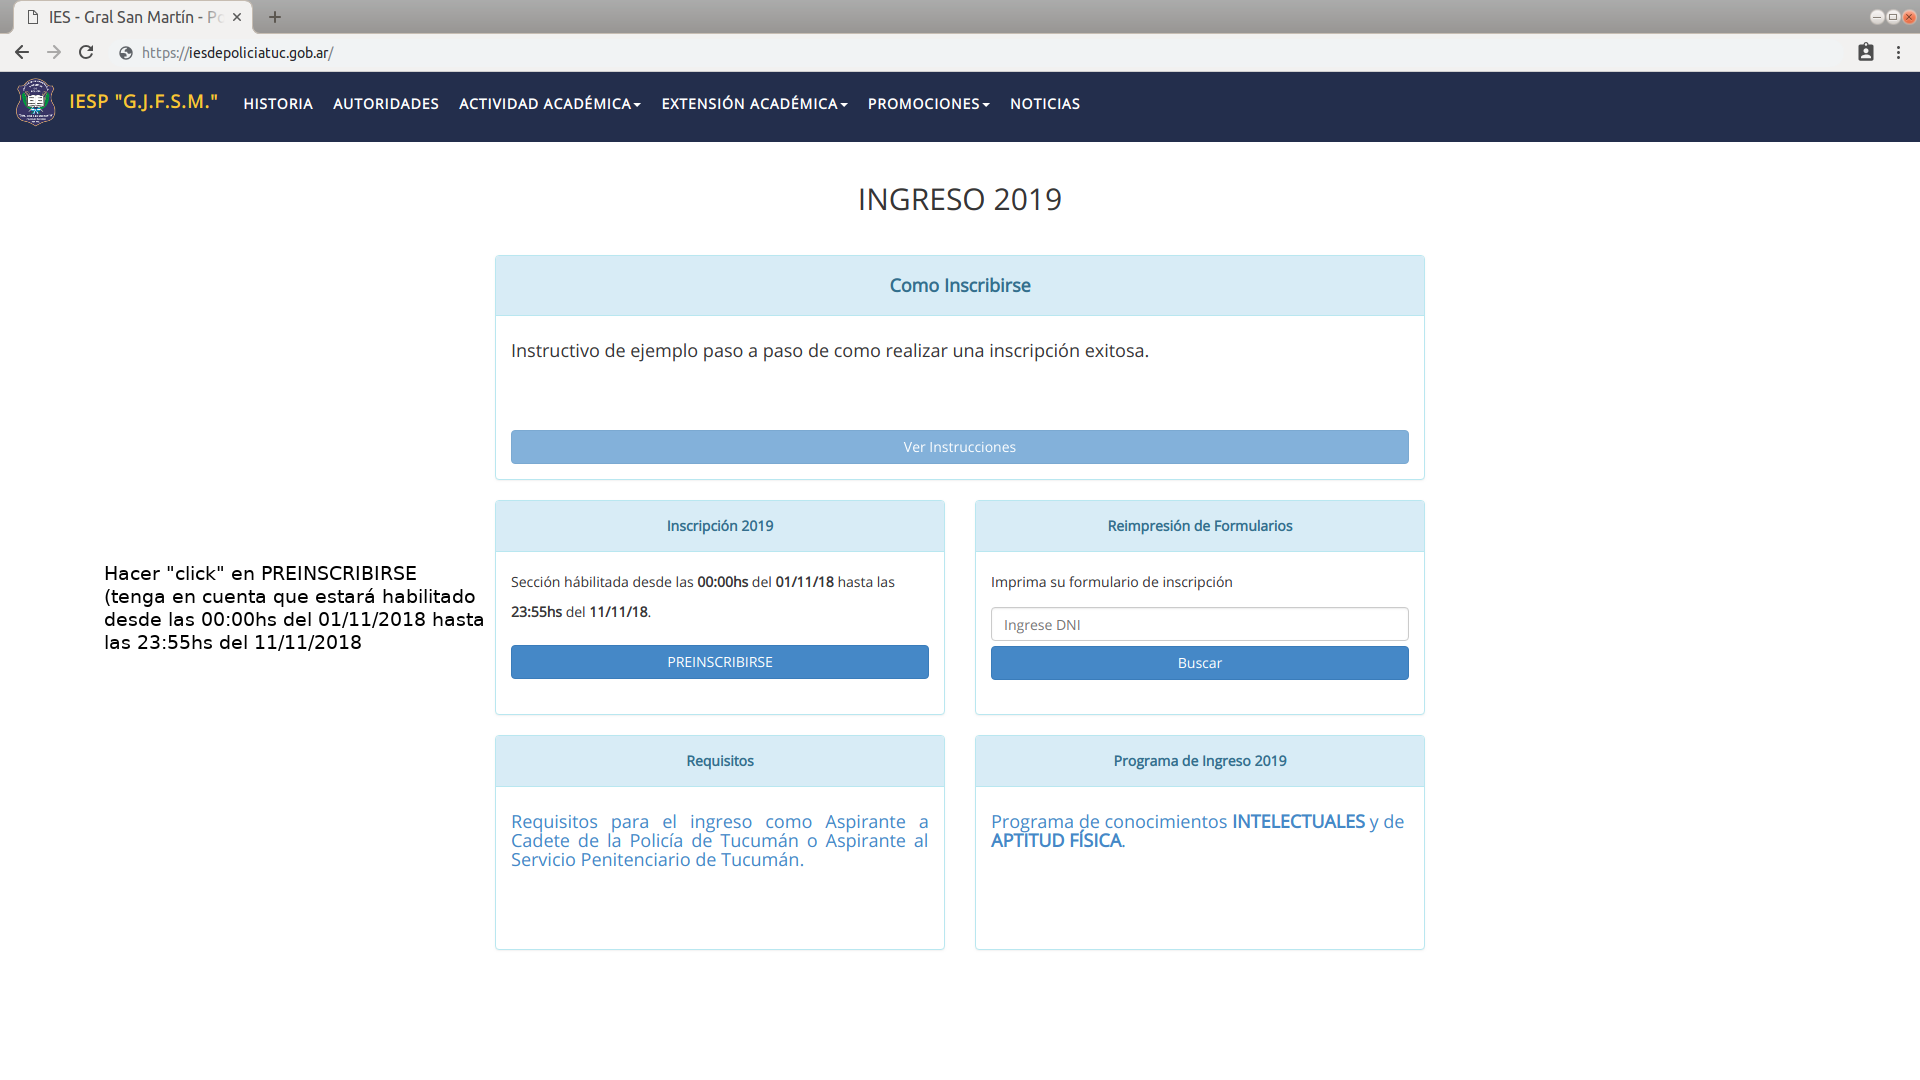
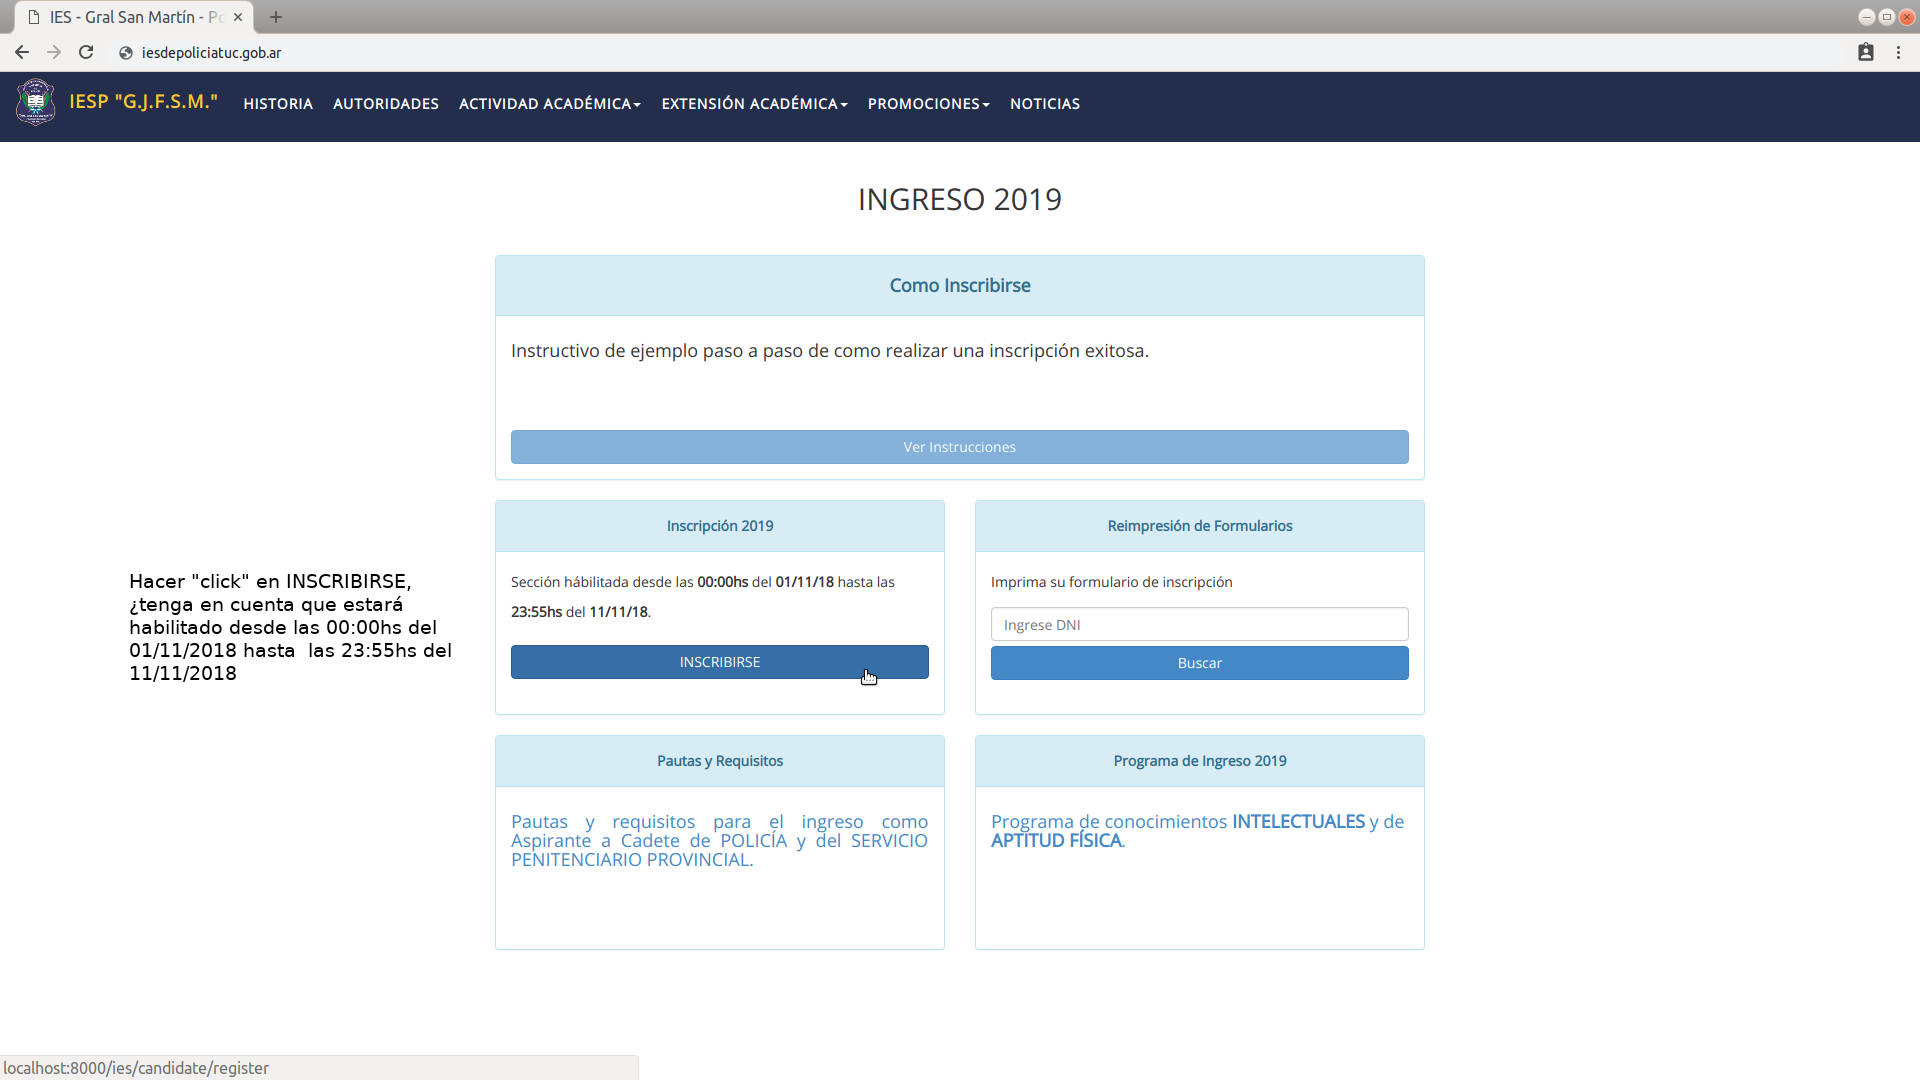
added some images to inscription's instructive

diff --git a/views/candidate/profile.html b/views/candidate/profile.html
@@ -11,14 +11,15 @@
             </div>
             <div class="panel-body text-justify">
                 <h3 class="">Asignado para:</h3>
-                <h4><strong>Fecha: {{=shift.shift.shift_date.strftime("%d/%m/%Y")}}</strong></h4>
-                <h4><strong>Hora: {{=shift.shift.shift_time}}</strong></h4>
-                <h4>Al momento de la inscripción debe llevar lo siguiente: </h4>
+                <h3><strong>Fecha: {{=shift.shift.shift_date.strftime("%d/%m/%Y")}}  -  Hora:   {{=shift.shift.shift_time}}</strong></h3>
+               
+                <h3 class="text-center"><strong>DOCUMENTACIÓN A PRESENTAR PARA CONVALIDAR LA INSCRIPCION ON LINE</strong></h3><br>
                 <ol>
-                    <li><h4>Documento Nacional de Identidad (actualizado) y fotocopia</h4></li>
-                    <li><h4>Certificado de Nacimiento Original (actualizado) y copia.</h4></li>
-                    <li><h4>Título análitico de estudios secundarios y/o constancia de estudios finalizados otorgada por el establecimiento donde cursó sus estudios(con aclaración de que <strong>no se adeuda materias</strong>)</h4></li>
-                    <li><h4>Formulario de inscripción impreso de la web del IES de Policía de Tucumán Gral San Martín con la asignación de turno respectivo para su presentación</h4></li>
+                    <li><h4>Formulario de inscripción original impreso por duplicado de la Página Web con la asignación del turno respectivo para su presentación.</h4></li>
+                    <li><h4>Consentimiento de ambos progenitores para participar del presente proceso de selección con certificación de firmas por Escribano Público o Juez de Paz, en caso de menores de edad. </h4></li>
+                    <li><h4>Presentar Documento Nacional de Identidad actualizado en original y fotocopias (no se aceptarán documentos no vigentes, provisorios, ni fotocopias).</h4></li>
+                    <li><h4>Título analítico de estudios secundarios concluidos, certificado por las autoridades del Ministerio de Educación, y /o Constancia otorgada por el establecimiento escolar donde cursó los estudios, con la expresa indicación de que no adeuda materias. En caso de no haber concluido el ciclo lectivo del nivel al momento de la inscripción, deberá abonar constancia que es alumno del último curso con carácter regular y será considerado inscripto condicional hasta que al 28/12/2.018 presente constancia de culminación del ciclo sin adeudar materias. En todos los casos deberá presentar original y copias.</h4></li>
+                    <li><h4>Acta de Nacimiento legalizada y actualizada, y copia.</h4></li>
 
                 </ol><br>
                 <!-- <h4 class="shift-obs"><strong>Observaciones: No se aceptarán constancias de titulo en trámite</strong></h4> -->

diff --git a/views/default/inscription_instructions.html b/views/default/inscription_instructions.html
@@ -15,7 +15,7 @@
 {{block content}}
 <div class="row">
 	<div class="col-md-8 col-md-offset-2">
-		<h1 class="text-center">Instructivo para preinscribirse en el sistema</h1><br>
+		<h1 class="text-center">Instructivo para inscribirse en el sistema</h1><br>
 	</div>
 </div>
 <div class="row">
@@ -63,7 +63,7 @@
 
 	<div class="col-md-8 col-md-offset-2">
 		<h3>Paso 9</h3>
-		<img class="img-responsive" src="{{=URL('static','img/instructions/profile_turno_asignado.jpg')}}" alt="">
+		<img class="img-responsive" src="{{=URL('static','img/instructions/paso9.png')}}" alt="">
 	</div>
 
 	<!-- <div class="col-md-8 col-md-offset-2">

diff --git a/views/default/school_enrolment.html b/views/default/school_enrolment.html
@@ -30,7 +30,7 @@
 		     Sección hábilitada desde las <strong>00:00hs</strong>
 		     del <strong>01/11/18</strong> hasta las <strong>23:55hs</strong>
 		     del <strong>11/11/18</strong>. 
-		     	<a href="{{=URL('candidate','register')}}" class="btn btn-primary btn-block" style="margin-top: 18px;">PREINSCRIBIRSE</a>
+		     	<a href="{{=URL('candidate','register')}}" class="btn btn-primary btn-block" style="margin-top: 18px;">INSCRIBIRSE</a>
 		     {{pass}}
 		  </div>
 
